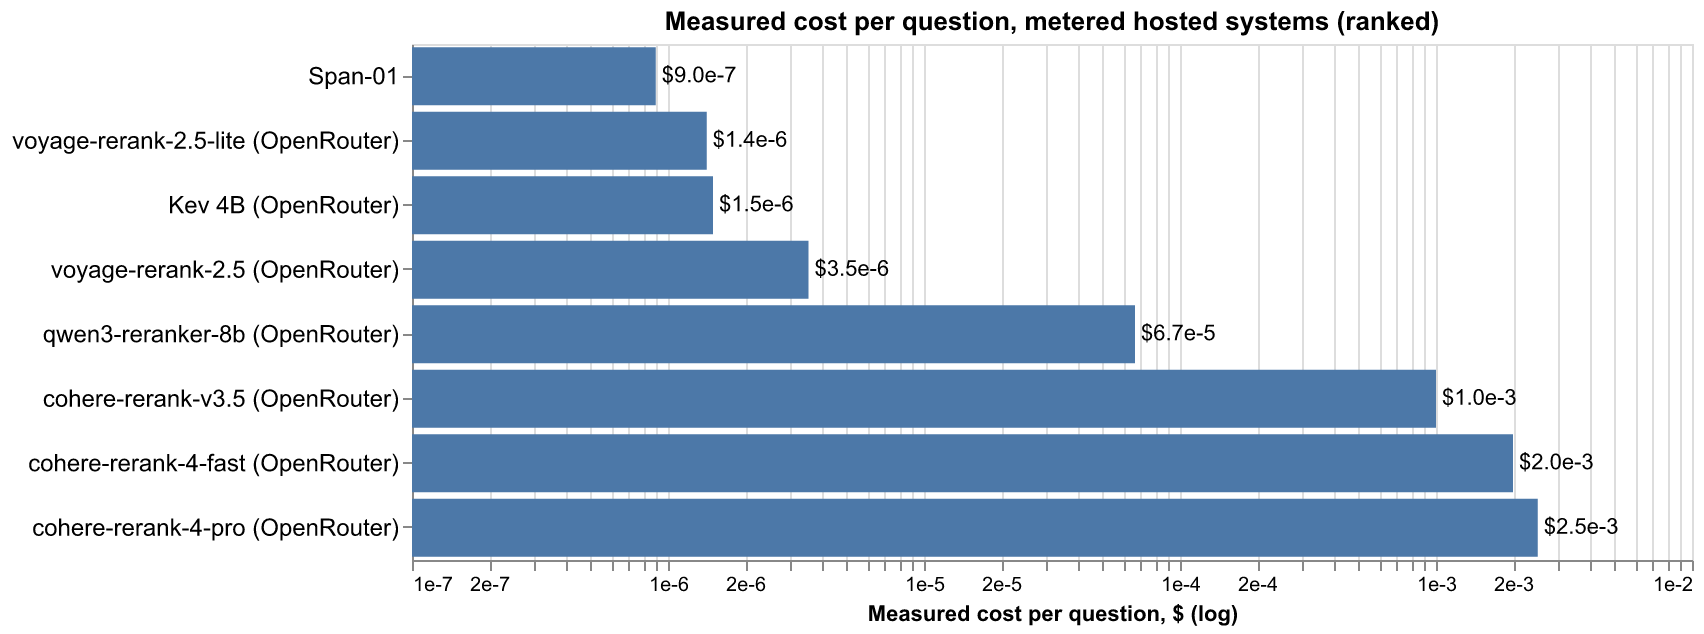
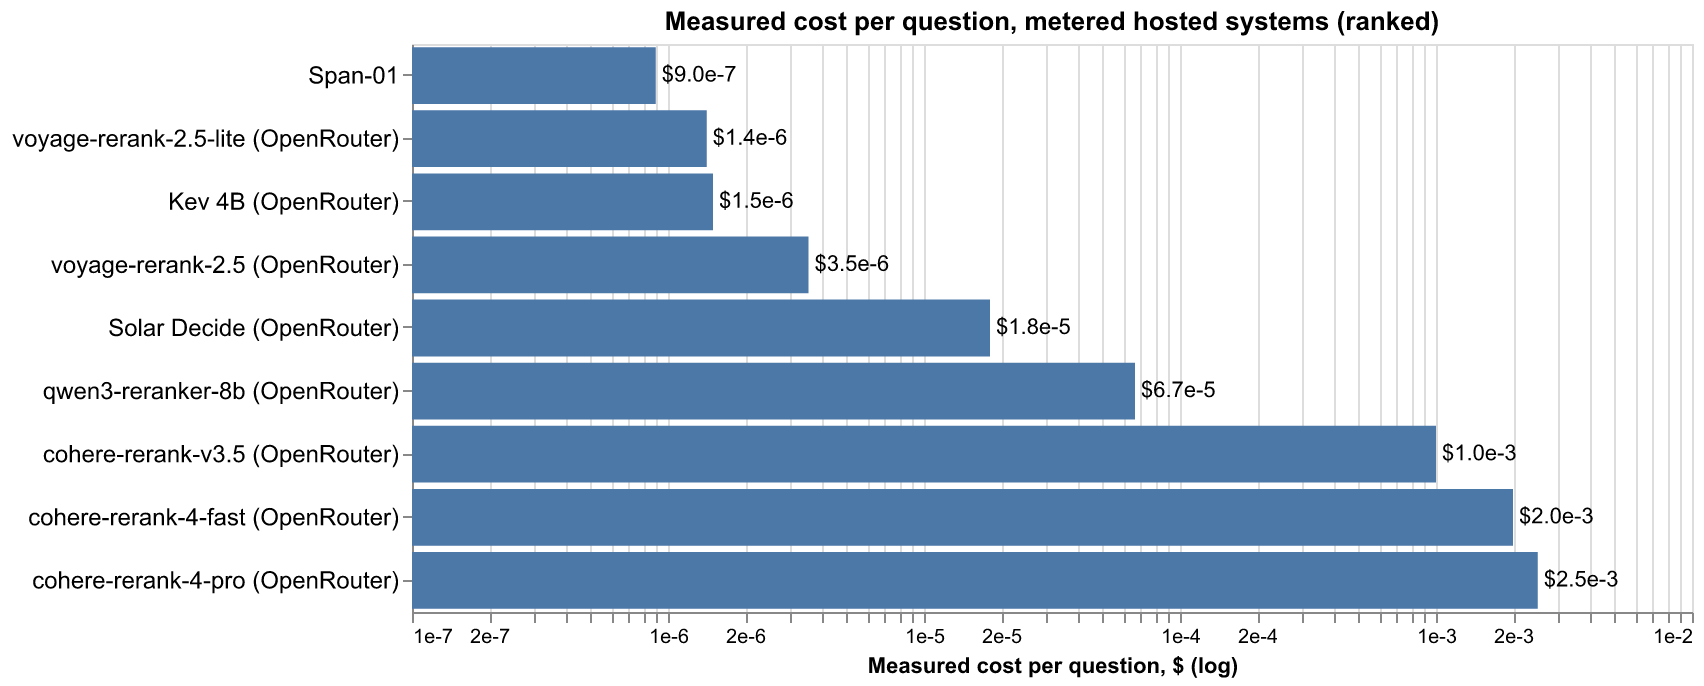
docs(readme,charts): Solar Decide takes the spectrum lead at 95.8%
New system-table row (metered $1.8e-5/q, the one hosted system with
a ZDR Upstage endpoint - runs used default routing), mechanism
paragraph entry, top row in both results tables, cost-table row and
takeaways; winnow/qwen3-reranker bullet re-ranked behind Solar and
Jev. Counts move to 54 systems / 51 benched / 30 families everywhere,
and the Sinhala highlight now lists all seven 100% scorers (the old
'Jev and jevk5 only' claim was already stale - winnow, hosted Kev,
Span-01 and Intern-Decision 0.8B score 1.0 too). Charts regenerated
with make_chart_images.py.

Changed region(s): [[0.0, 0.0, 0.9953, 0.989]]

diff --git a/README.md b/README.md
@@ -1,7 +1,7 @@
 # zero-shot-ie-bench
 
-Fifty-three zero-shot systems (fifty of them benchmarked) across
-twenty-nine information-extraction and classification families —
+Fifty-four zero-shot systems (fifty-one of them benchmarked) across
+thirty information-extraction and classification families —
 extractor encoders, a purpose-built classifier, cross-encoder rerankers,
 and typed-decision engines (local and cloud, the hosted ones behind
 OpenRouter's decision and rerank endpoints, plus five models served by
@@ -42,11 +42,14 @@ Just here for the results? **[Skip to the benchmark charts](#benchmark-charts)**
 | [Winnow E4B](https://huggingface.co/EldanRing/Winnow-E4B) (`winnow:e4b` via Ollaya, Q8_0 GGUF) | local decision LLM (EldanRing, fine-tuned from Gemma 4 E4B on llama.cpp; option letters' logits) | E4B (8 GB Q8_0) | Apache 2.0 | $0 · local |
 | [Jev](https://www.typesafe.ai/) (`jev-latest` via System One API) | cloud typed-decision engine (choice/score/noul) | closed | proprietary API | metered · n/r ‡ |
 | [Kev 4B](https://openrouter.ai/jaredpalmer/kev-4b) (`jaredpalmer/kev-4b` via OpenRouter) | cloud decision engine (same System One contract as local Kev, hosted) | 4B | proprietary API | metered · $1.5e-6/q † |
+| [Solar Decide](https://openrouter.ai/upstage/solar-decide) (`upstage/solar-decide` via OpenRouter) | cloud typed-decision engine (Upstage System One endpoint on Solar Mini 4: choice/score/noul with calibrated probabilities, no prose — one forward, output tokens free, 524K context) | 35B MoE (3B active) | proprietary API | metered · $1.8e-5/q † |
 | [Span-01](https://openrouter.ai/respan/span-01) / [Span-01 Lite](https://openrouter.ai/respan/span-01-lite) (`respan/span-01*`) | cloud behavior scorer (one noul probability per label, argmax = decision) | closed | proprietary API | metered · $9.0e-7/q · Lite free † |
 | [Qwen3-Reranker 8B](https://openrouter.ai/qwen/qwen3-reranker-8b) · [Voyage rerank-2.5](https://openrouter.ai/voyageai/rerank-2.5) (+lite) · [Nemotron Rerank VL 1B](https://openrouter.ai/nvidia/llama-nemotron-rerank-vl-1b-v2:free) · [Cohere Rerank](https://openrouter.ai/cohere/rerank-4-pro) (4 Pro / 4 Fast / v3.5), all via OpenRouter | cloud rerankers (same (instruction, label) argmax mapping as the local ones) | 8B / closed / 1.7B / closed | proprietary API | metered · $1.4e-6–$2.5e-3/q · Nemotron free † |
 
 † Non-ZDR endpoints: these providers may retain request data (OpenRouter's
 account privacy settings gate this — the account used here allows them).
+Solar Decide is the one † system with a ZDR Upstage endpoint on
+OpenRouter; the runs here used default routing, so it stays non-ZDR.
 Every local system in the repo keeps text on the machine. The Cost column
 marks who bills per request: `$0 · local` systems cost no API money
 (only CPU time), `metered` systems bill per token/search with the
@@ -77,6 +80,9 @@ slots of one causal forward over an assistant JSON skeleton — the
 causal-forward letter-logit cousin of the GGUF letter-logit LLMs and
 so1's logprob harness, with a per-checkpoint calibration temperature),
 cloud Jev / Kev 4B /
+Upstage's Solar Decide (the Solar Mini 4 MoE behind the same System One
+contract — calibrated choice probabilities and score/noul read straight
+off the option logits, no generation) /
 Span-01, and the five Ollaya-served
 models — NLI entailment classifiers, the Semantic-Router `decision`, the
 full JevK5 4B and Winnow E4B). The GLiNER lineage
@@ -131,7 +137,7 @@ Caveats worth knowing:
   collapse Laya onto one label (58.3%); benchmarked with strings, where
   it scores 95.8%.
 
-## Mixed-pool spectrum benchmark (all 50 systems)
+## Mixed-pool spectrum benchmark (all 51 systems)
 
 `bench_spectrum.py` — the headline comparison. Every system answers the
 same **one mixed pool** of 48 classification questions (sentiment + topic,
@@ -145,7 +151,8 @@ exact span-set match (18 questions). † = hosted via OpenRouter (non-ZDR):
 
 | System | Classification | s/question | NER exact | s/question |
 |---|---|---|---|---|
-| Jev (cloud) | **93.8%** | 0.018 | n/a | |
+| Solar Decide (OpenRouter) † | **95.8%** | 0.308 | n/a | |
+| Jev (cloud) | 93.8% | 0.018 | n/a | |
 | winnow e4b (Ollaya) | **87.5%** | 8.138 | n/a | |
 | qwen3-reranker-8b (OpenRouter) † | 87.5% | 0.564 | n/a | |
 | GLiNER2.5-Decide | 85.4% | 0.412 | 61% | 0.476 |
@@ -198,8 +205,17 @@ exact span-set match (18 questions). † = hosted via OpenRouter (non-ZDR):
 
 Takeaways:
 
-- **winnow e4b ties qwen3-reranker-8b at 87.5% — the best non-Jev
-  systems of all 50** — and winnow is local and free (the metered
+- **Solar Decide takes the overall lead at 95.8%** — the first system to
+  beat cloud Jev (93.8%) on the mixed pool, in its first week on
+  OpenRouter. Its two misses are boundary topics (a football club's
+  share price read `sports`, a government AI strategy read
+  `technology`); it also joins the 100% multilingual club on arrival
+  (below). It batches each 24-question task into one request like kev,
+  but Solar's tokenizer runs long on English (~8.7k input tokens per
+  batched request), so it bills ~$1.8e-5/question — 12× kev-4b, still
+  110× below cohere 4-fast.
+- **winnow e4b ties qwen3-reranker-8b at 87.5% — the best systems
+  behind Jev and Solar Decide of all 51** — and winnow is local and free (the metered
   reranker needs OpenRouter; one more datapoint for rerankers doubling
   as decision engines — bge locally reaches 72.9%, Kev/OpenThai level,
   where the same rerankers sit near zero on JevBench's leaderboard).
@@ -291,6 +307,7 @@ reconstructed from list prices. Measured on these exact runs (one pass;
 | voyage-rerank-2.5-lite † | $0.000068 | $0.000115 | $0.0000014 |
 | Kev 4B (OpenRouter) | $0.000072 | $0.000106 | $0.0000015 |
 | voyage-rerank-2.5 † | $0.000170 | $0.000287 | $0.0000035 |
+| Solar Decide (OpenRouter) † | $0.00087 | $0.0010 | $0.0000181 |
 | qwen3-reranker-8b † | $0.0032 | $0.0036 | $0.0000667 |
 | cohere-rerank-v3.5 † | $0.048 | $0.054 | $0.0010 |
 | cohere-rerank-4-fast † | $0.096 | $0.108 | $0.0020 |
@@ -305,7 +322,10 @@ measurements say that the price lists don't: Cohere bills ~2.5 search
 units per rerank request (a 48-q run on 4-pro costs $0.12, not the
 naive 48 × $0.001); kev-4b and Span-01 sit near $1e-6/question — kev
 batches each 24-question task into one request, Span's payloads are
-tiny. Not benched on OpenRouter on purpose: `typesafe/jev-1.13`
+tiny. solar-decide batches like kev but bills by input token, and
+Solar's tokenizer is English-verbose (~8.7k tokens per batched
+request), landing it at $1.8e-5/question. Not benched on OpenRouter on
+purpose: `typesafe/jev-1.13`
 (RBAC-gated; Jev measured via TypeSafe directly) and
 `typesafe/jev-router` (a chat router, not a typed-decision endpoint).
 
@@ -341,13 +361,14 @@ images (regenerate with `python make_chart_images.py`):
 Popular: Spanish, French, Chinese · Medium: Vietnamese, Turkish,
 Ukrainian · Rare: **Sinhala**, Icelandic, Welsh. Sentences were verified
 by blind back-translation through an independent model instance (it
-caught 8 errors, including a sentiment-flipping Sinhala word). All 50
+caught 8 errors, including a sentiment-flipping Sinhala word). All 51
 systems answer the same 54 texts.
 
 | System | Popular | Medium | Rare | All |
 |---|---|---|---|---|
 | Jev (cloud) | **100%** | **100%** | **100%** | **100%** |
 | jevk5 4B (Ollaya) | 100% | 100% | 100% | **100%** |
+| Solar Decide (OpenRouter) † | 100% | 100% | 100% | **100%** |
 | winnow e4b (Ollaya) | 100% | 100% | 94% | 98% |
 | Span-01 † | 100% | 100% | 94% | 98% |
 | Kev 4B (OpenRouter) † | 100% | 100% | 94% | 98% |
@@ -403,6 +424,11 @@ systems answer the same 54 texts.
 
 Highlights:
 
+- **Solar Decide joins the 100% club on arrival** — perfect on all 54
+  texts, Sinhala/Icelandic/Welsh included, matching Jev and jevk5 4B;
+  the Solar Mini 4 backbone is built Korean/English/Japanese-first, and
+  the breadth shows even outside that trio (0.885 s/text, one request
+  per text on this suite).
 - **jevk5 4B is the first local system at 100% multilingual** — perfect
   on all 54 texts including Sinhala, matching cloud Jev; its sibling
   winnow e4b follows at 98% (100% Sinhala, one Icelandic miss), ahead
@@ -417,9 +443,10 @@ Highlights:
   languages then collapses on rare scripts (22%).
 - GLiNER2.5-multi is perfect through Ukrainian but drops on Welsh/Sinhala
   (89% overall — still the best local *encoder*); gliclass-large transfers
-  surprisingly well for an English-family release (81%, 100% Chinese,
-  joint-best local Sinhala 67%); Jev and jevk5 4B are the only
-  100%-on-Sinhala systems.
+surprisingly well for an English-family release (81%, 100% Chinese,
+  joint-best local Sinhala 67%); 100%-on-Sinhala is shared by seven
+  systems — Jev, jevk5 4B, winnow e4b, Solar Decide, hosted Kev 4B,
+  Span-01 and Intern-Decision 0.8B.
 - bge-reranker-v2-m3's flat 67/67/67 is structural: it never predicts
   neutral (35 neg / 19 pos across all 54 texts), so every language
   scores exactly 4/6 — right on the four subjective texts, wrong on
@@ -673,7 +700,7 @@ C:/venvs/agent-jev/Scripts/python demos/verdict_demo.py
                                          # (--repeats N) → results/bench_results.json
 .venv/Scripts/python bench_spectrum.py --system <name>   # one mixed pool per
                                          # system → results/bench_spectrum_results.json
-                                         # (50 systems; von, JevK5-Lite,
+                                         # (51 systems; von, JevK5-Lite,
                                          # LFM2.5-RLCD 350M, MoJev 0.85B,
                                          # Lumma-Fev, Julia 1 and
                                          # Intern-Decision: same command
@@ -682,7 +709,7 @@ C:/venvs/agent-jev/Scripts/python demos/verdict_demo.py
 # imports rlcd in-process and needs the transformers-5 agent-jev interpreter:
 C:/venvs/agent-jev/Scripts/python bench_spectrum.py --system "Verdict 151M (local)"
 .venv/Scripts/python bench_multilingual.py --system <name>
-                                         # 9 languages, all 50 systems →
+                                         # 9 languages, all 51 systems →
                                          # results/bench_multilingual_results.json
                                          # (same interpreter rules)
 .venv-von/Scripts/python bench_multilingual.py --system "Lumma-fev 0.15B"
@@ -720,8 +747,8 @@ ReLiK, GLiClass, Rerankers, Laya, von, JevK5-Lite, LFM2.5-RLCD, Certo,
 MoJev, nanodiff, Lumma (0.15B/0.6B/4B checkpoint dropdown), Julia,
 Intern-Decision (0.8B/2B/4B checkpoint dropdown), so1 (choice plus a
 yes_no/scale section),
-Jev (cloud), and OpenRouter (all ten hosted systems:
-Kev 4B, Span-01/Lite, seven rerankers — one metered API request per click,
+Jev (cloud), and OpenRouter (all eleven hosted systems:
+Kev 4B, Solar Decide, Span-01/Lite, seven rerankers — one metered API request per click,
 needs `OPENROUTER_API_KEY`), plus **Ollaya** (the five daemon-served
 decision models behind a model dropdown — needs the local `ollaya serve`,
 free), plus benchmark tabs (classification /
@@ -888,12 +915,12 @@ LFM2.5-RLCD 350M, nanodiff 350M); the rest:
 | `engines/relik_client.py` | Windows csv shim (SapienzaNLP/relik#39) + strict loader for the ReLiK pipeline, parametrized so the tour can load the joint NER+relation sibling (two relik 1.0.7 load fixes; the benched default is forwarded verbatim) |
 | `engines/jev_client.py` | dependency-free Python client for the TypeSafe System One API (also used against the local Kev server) |
 | `engines/agentjev_client.py` | dependency-free client for the local AgentJev loopback API |
-| `engines/openrouter_client.py` | dependency-free client for OpenRouter's `/systemone` and `/rerank` endpoints (hosted Kev 4B, Span-01, seven rerankers; `OPENROUTER_API_KEY` in repo-root `.env`) |
+| `engines/openrouter_client.py` | dependency-free client for OpenRouter's `/systemone` and `/rerank` endpoints (hosted Kev 4B, Solar Decide, Span-01, seven rerankers; `OPENROUTER_API_KEY` in repo-root `.env`) |
 | `engines/{rlcd,certo,mojev,nanodiff}_engine/` | vendored inference packages for the local decision systems (attribution headers with source repo, revision and license inside each) |
 | `bench.py` | flat-suite benchmark driver (classification + NER, 5× determinism) |
 | `bench_spectrum.py` | the headline mixed-pool benchmark, one run per `--system` |
 | `bench_graded.py` | question pools for the mixed-pool benchmark (source for `bench_spectrum.py`) |
-| `bench_multilingual.py` | 9-language zero-shot suite, all 50 systems (Sinhala/Icelandic/Welsh in the rare tier) |
+| `bench_multilingual.py` | 9-language zero-shot suite, all 51 systems (Sinhala/Icelandic/Welsh in the rare tier) |
 | `make_chart_images.py` | renders the benchmark charts to `docs/charts/*.png` for this README |
 | `results/bench_*_results.json` | latest results, rendered by the web UI |
 
